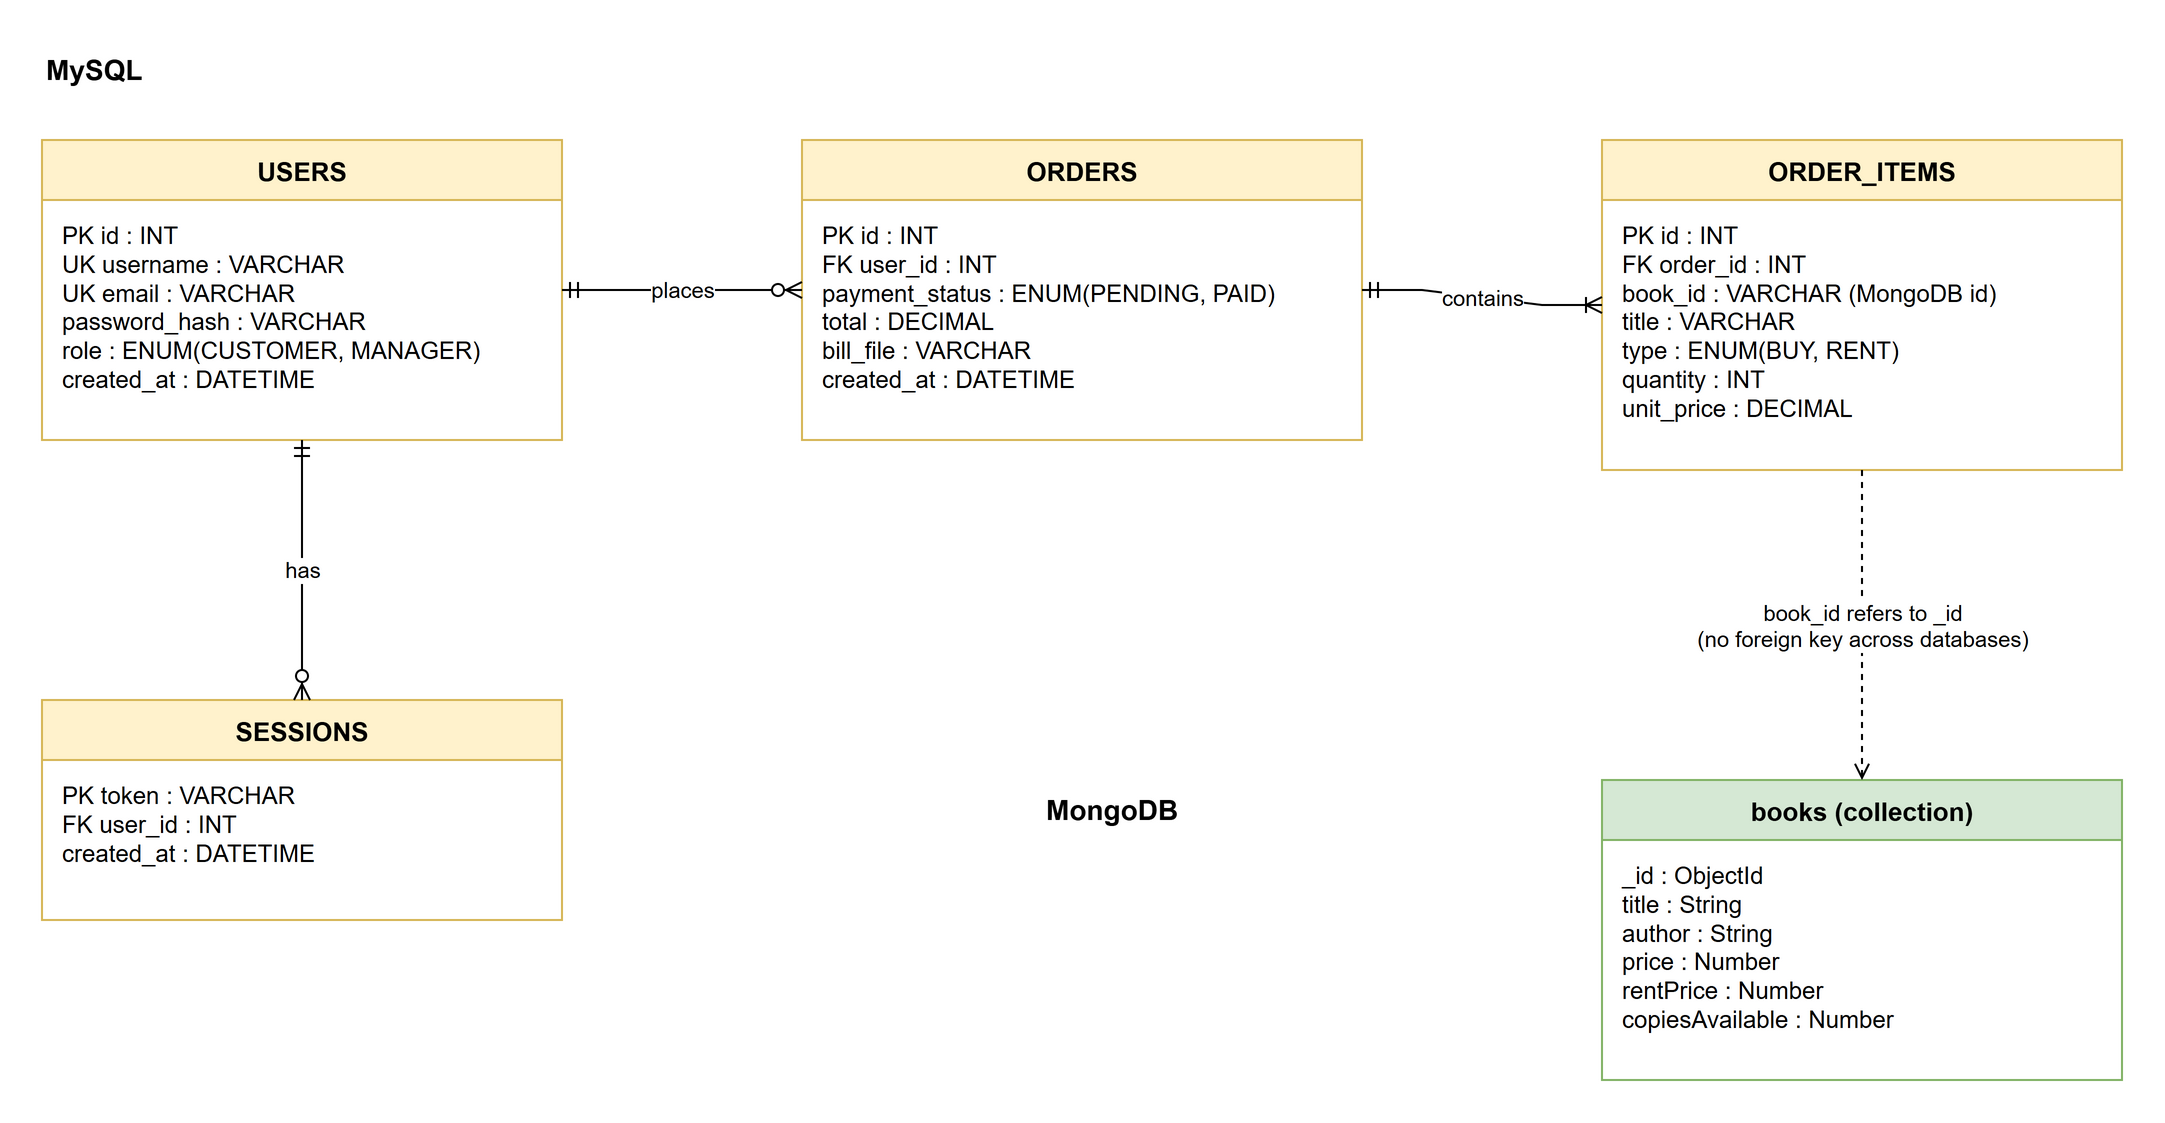
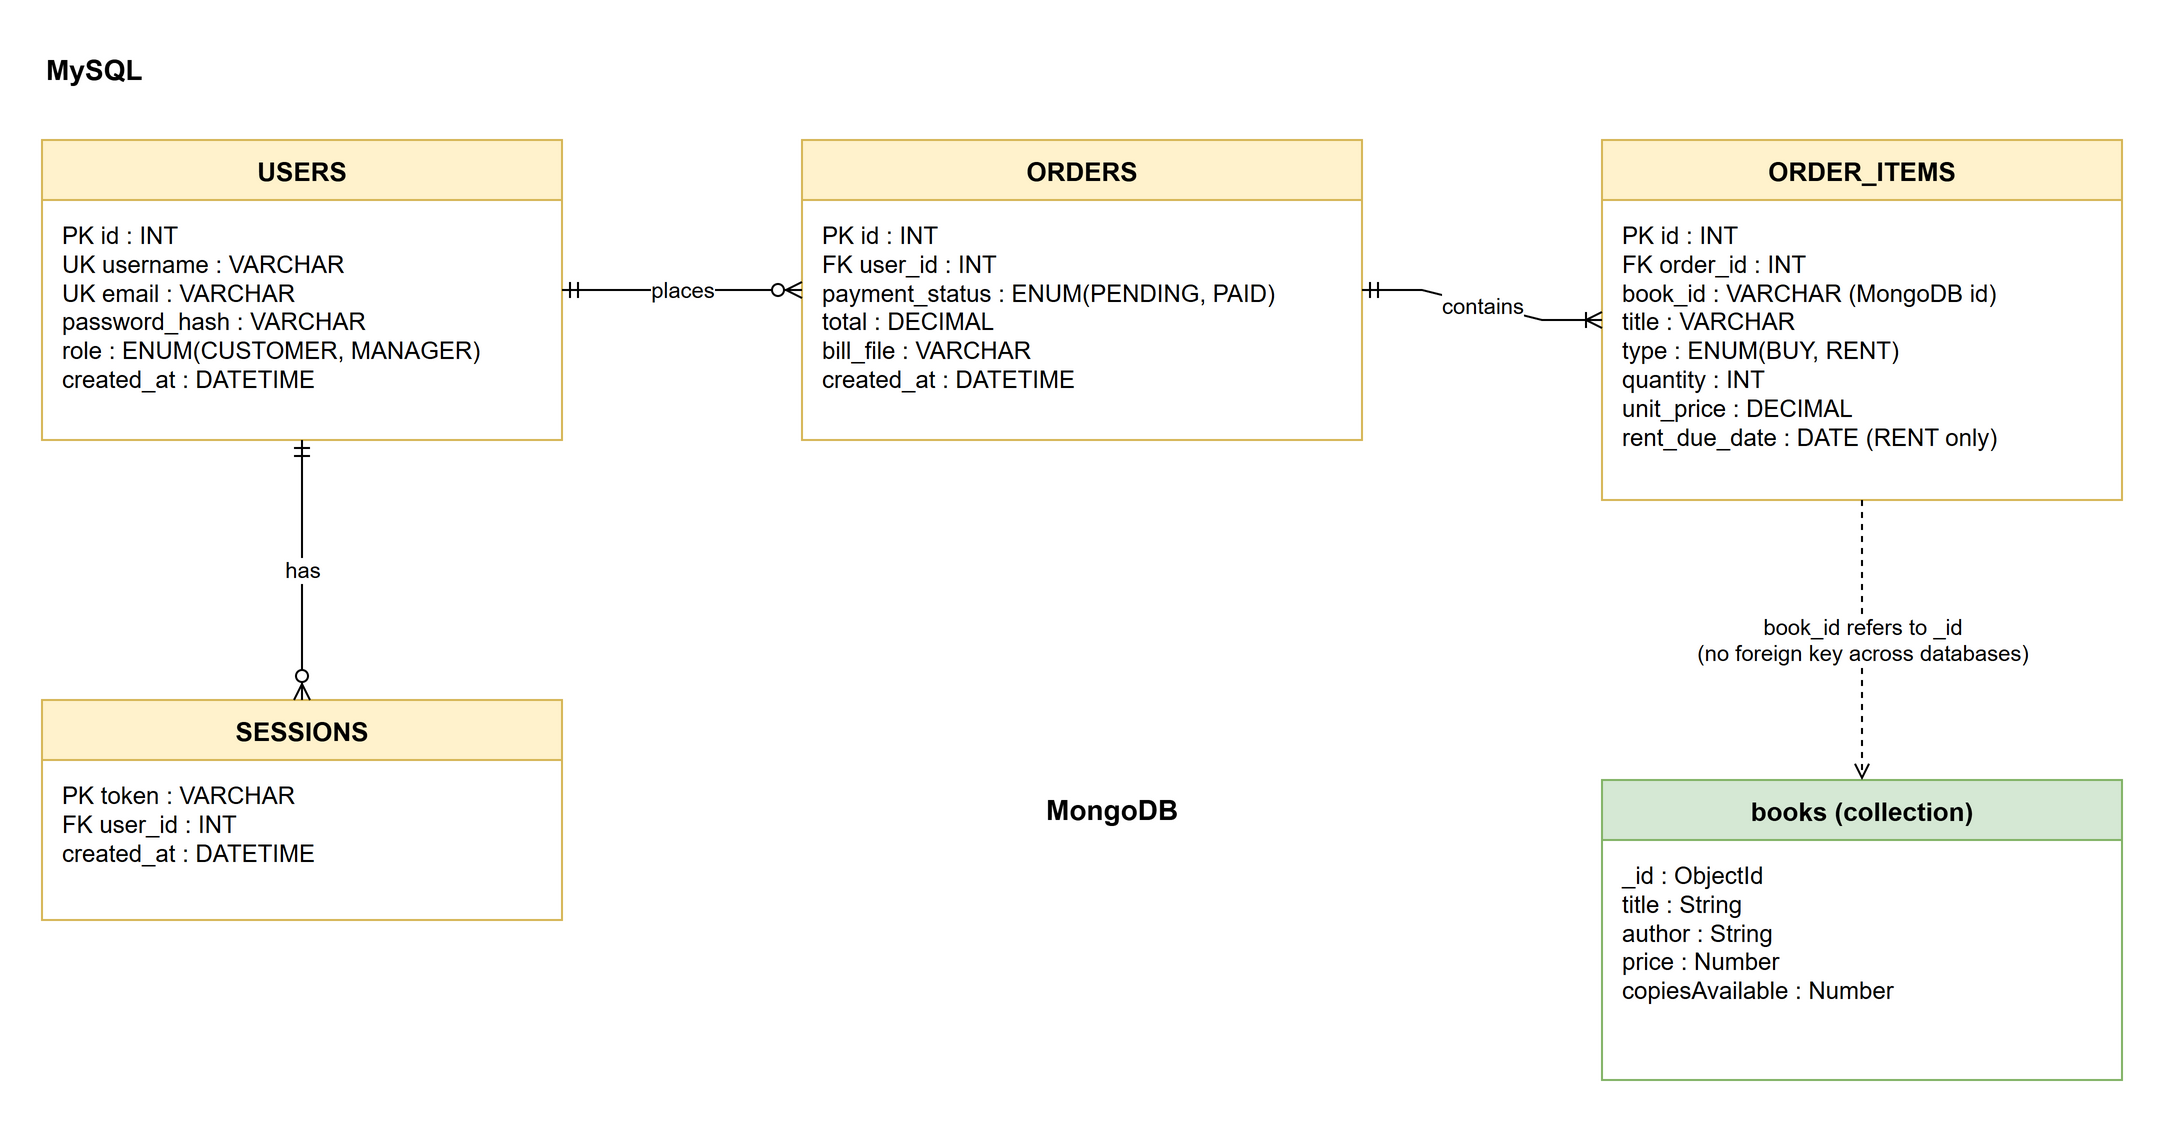
Define the renting rule: 10% of book price for 7 days
Rent price is calculated by order-service instead of stored per book;
rented order items get a due date. Docs and ER diagram updated.

diff --git a/docs/01-idea/project-idea.md b/docs/01-idea/project-idea.md
@@ -38,6 +38,22 @@ The system has:
 | FR13 | The manager selects an order and updates its payment status (e.g. Pending → Paid) | Manager | Yes |
 | FR14 | The manager adds new books or updates their information (e.g. number of available copies) | Manager | Yes |
 
+## Renting rule (FR7)
+
+- Renting a book costs **10% of the book's price**.
+- A rental lasts **7 days**.
+
+Example: a customer selects three books and places one order.
+
+| Book | Choice | Book price | Charged |
+|---|---|---|---|
+| Clean Code | Buy | $40.00 | $40.00 |
+| Database Systems | Buy | $55.00 | $55.00 |
+| Java Concurrency | Rent (due back in 7 days) | $80.00 | $8.00 |
+| **Total on the bill** | | | **$103.00** |
+
+Handling the return of a rented book is not part of the PRD and is not built.
+
 ## Non-functional requirements
 
 To be written later. They will be kept short and simple.
@@ -54,9 +70,6 @@ These were in the first draft of this document and have been removed because the
 
 ## Open questions
 
-- [ ] **Renting:** FR7 says "buy and/or rent", but nothing else in the PRD describes renting (rental price, return, duration). Ask the instructor. Until answered, the design keeps a simple `BUY` / `RENT` type on each ordered book.
-  - Example of what FR7 seems to mean: a customer selects three books and, in **one order**, buys two of them and rents the third. The bill then lists all three with their prices and one total.
-  - What the PRD does not say: how much renting costs compared with buying, how long a rental lasts, and whether a rented book is returned (and its copy becomes available again).
 - [ ] Is the project individual or a team project?
 - [ ] Are the two optional requirements (FR3, FR10) going to be done?
 
@@ -66,3 +79,4 @@ These were in the first draft of this document and have been removed because the
 |---|---|---|
 | 2026-11-13 | Use Java for backend and clients | One language across the whole system; personal preference |
 | 2026-11-13 | Requirements replaced with the official PRD (FR1–FR14) | The first draft was a guess made before the PRD was available |
+| 2026-11-13 | Renting costs 10% of the book price and lasts 7 days | Rule given for FR7, which the PRD leaves undefined |

diff --git a/docs/02-design/database-design.md b/docs/02-design/database-design.md
@@ -15,7 +15,7 @@ Source: [diagrams/database-er.drawio](diagrams/database-er.drawio)
 | `USERS` | Accounts with username, email, hashed password, and role (`CUSTOMER` or `MANAGER`) | FR1, FR3, FR11 |
 | `SESSIONS` | One row per logged-in session; deleted on logout | FR2 |
 | `ORDERS` | One row per order, with total and payment status (`PENDING` or `PAID`) | FR7, FR8, FR12, FR13 |
-| `ORDER_ITEMS` | The books in an order, each with its type (`BUY` or `RENT`) and price | FR6, FR7, FR8 |
+| `ORDER_ITEMS` | The books in an order, each with its type (`BUY` or `RENT`), the price charged, and a due date if rented | FR6, FR7, FR8 |
 
 ## MongoDB
 
@@ -27,7 +27,6 @@ Collection `books` (FR4, FR5, FR14):
   "title": "Example Title",
   "author": "Author Name",
   "price": 19.99,
-  "rentPrice": 4.99,
   "copiesAvailable": 12
 }
 ```
@@ -36,7 +35,7 @@ Collection `books` (FR4, FR5, FR14):
 
 - `ORDER_ITEMS.book_id` points to a MongoDB document, so there is no foreign key across databases. order-service checks the book through catalog-service.
 - `title` and `unit_price` are copied into the order item, so the bill stays correct even if the book is changed later.
-- `rentPrice` and the `RENT` type depend on the open question about renting in [project-idea.md](../01-idea/project-idea.md).
+- Renting costs 10% of the book price and lasts 7 days. Books have no separate rent price: order-service calculates it, so for a `RENT` item `unit_price` = 10% of the book price and `rent_due_date` = order date + 7 days. For a `BUY` item `rent_due_date` is empty.
 
 ## Still to do in M2
 

diff --git a/docs/02-design/architecture.md b/docs/02-design/architecture.md
@@ -36,7 +36,7 @@ Manager-only actions are refused unless the session belongs to a manager (FR11).
 ## How an order becomes a bill (FR7–FR9)
 
 1. The customer app sends the selected books to order-service.
-2. order-service gets each book's current price from catalog-service and checks copies are available.
+2. order-service gets each book's current price from catalog-service and checks copies are available. A bought book is charged at full price; a rented book at 10% of the price, due back in 7 days.
 3. order-service saves the order in MySQL with payment status `PENDING`.
 4. order-service writes the bill to `bills/bill-<orderId>.html` and returns it to the customer app.
 

diff --git a/CHANGELOG.md b/CHANGELOG.md
@@ -15,6 +15,7 @@ All versions and patches of the project, newest first.
 - Roles are now Customer and Manager; login uses username and a session
 - Orders now carry a payment status (Pending/Paid) and produce an HTML bill
 - Milestone deadlines moved to fit the 2026-12-04 submission deadline
+- Renting rule defined: 10% of the book price for 7 days; rent price is calculated, not stored per book
 
 ### Removed
 - Features the PRD does not ask for: reviews, order history, deleting books, shipping statuses, categories

diff --git a/docs/02-design/api-design.md b/docs/02-design/api-design.md
@@ -33,6 +33,8 @@ Every endpoint except login and register needs the session token in the `Authori
 | GET | `/api/orders` | Manager | List all orders | FR12 |
 | PATCH | `/api/orders/{id}/payment-status` | Manager | Change payment status, e.g. `PENDING` → `PAID` | FR13 |
 
+A rented book is charged at 10% of its price and is due back 7 days after the order; order-service calculates both.
+
 FR10 (optional) adds no endpoint: order-service emails the bill when the order is created.
 
 ## Still to do in M2
